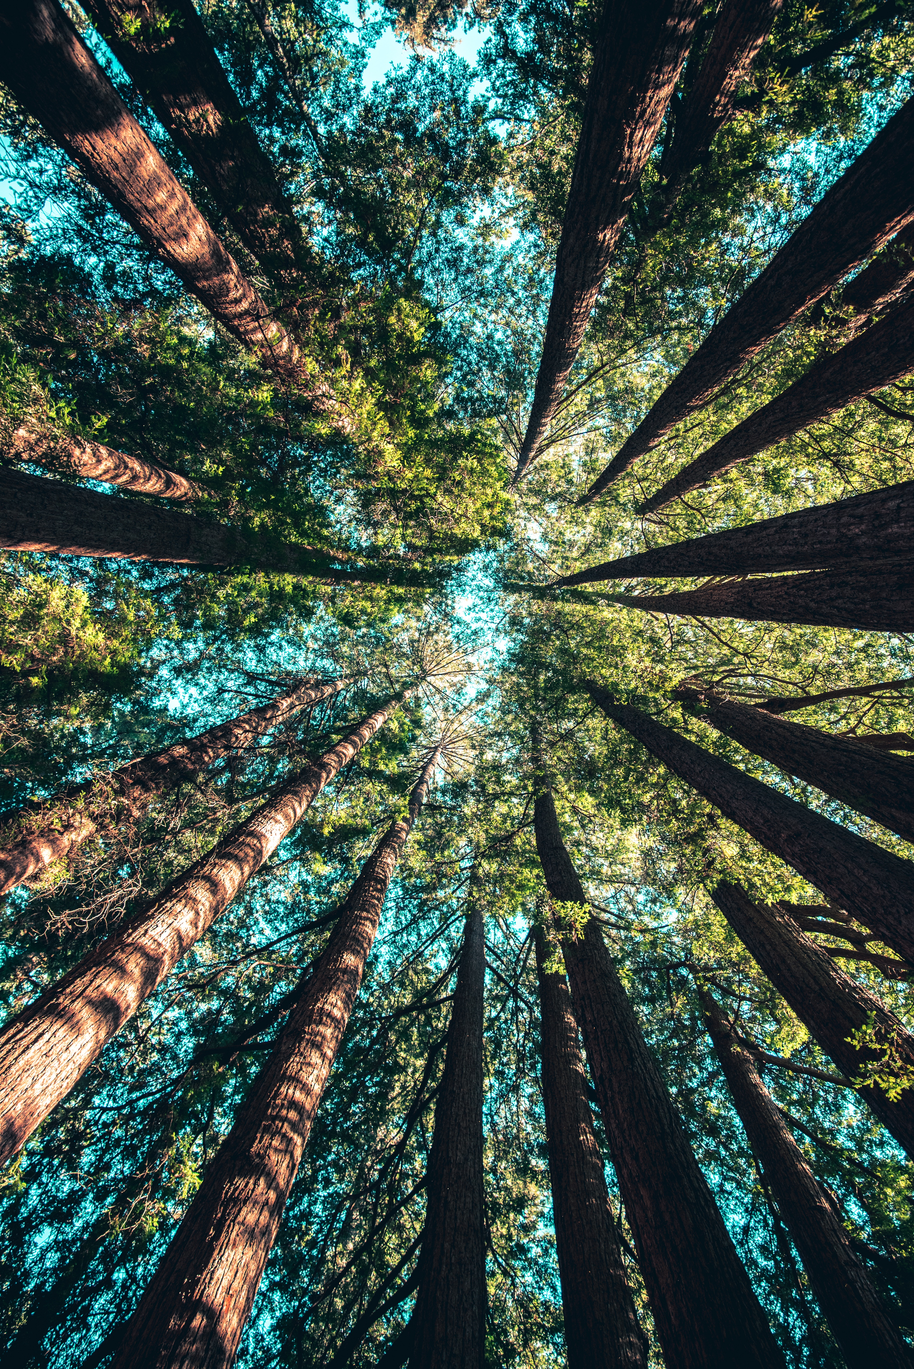
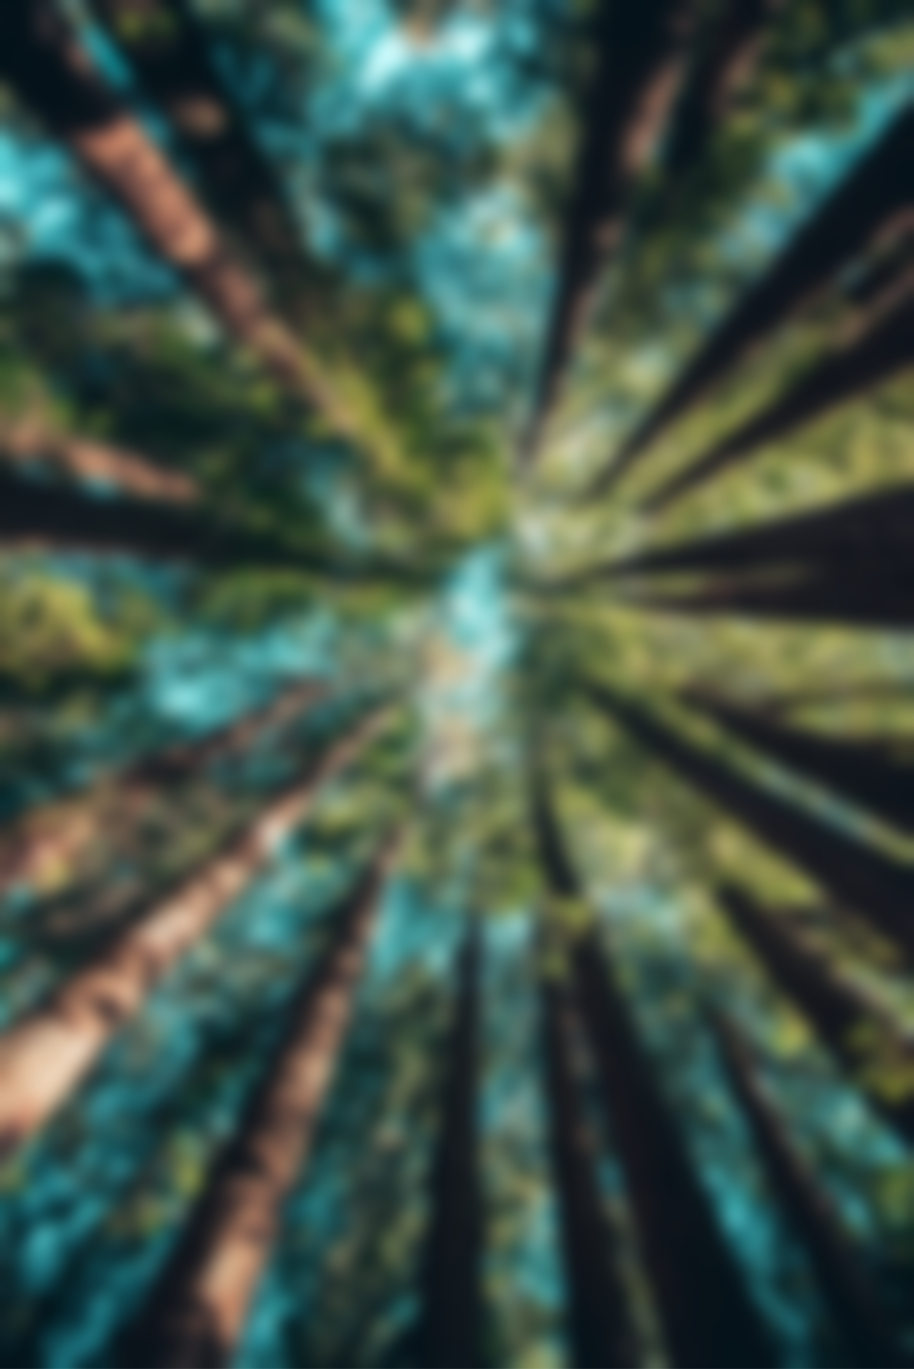
Added background image with a blur

diff --git a/src/screens/Welcome/Styles.tsx b/src/screens/Welcome/Styles.tsx
@@ -135,7 +135,7 @@ const styles = StyleSheet.create({
         flex: 1,
         flexDirection: 'column',
         backgroundColor: GREEN_LIGHT,
-        resizeMode: 'repeat'
+        resizeMode: 'cover'
     },
     showPostsButton: {
         backgroundColor: GREEN_LIGHT,
